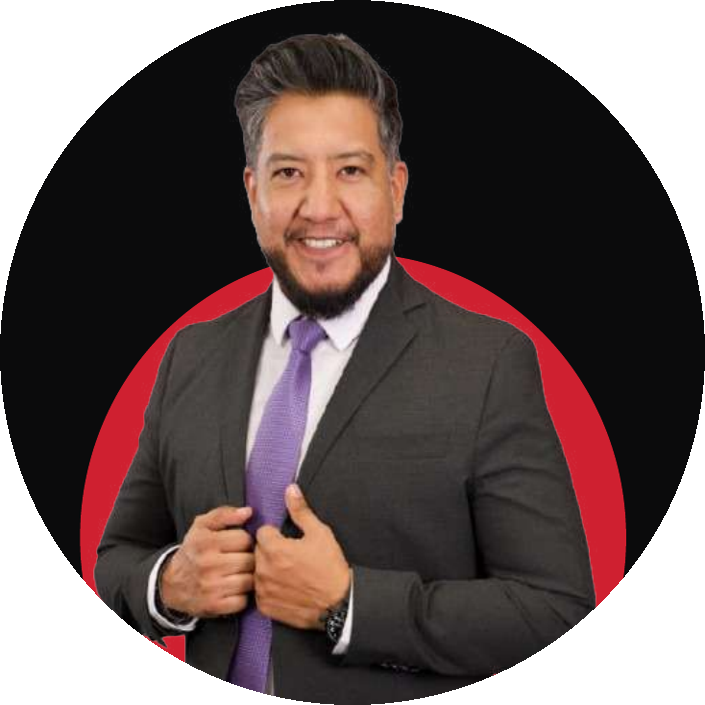
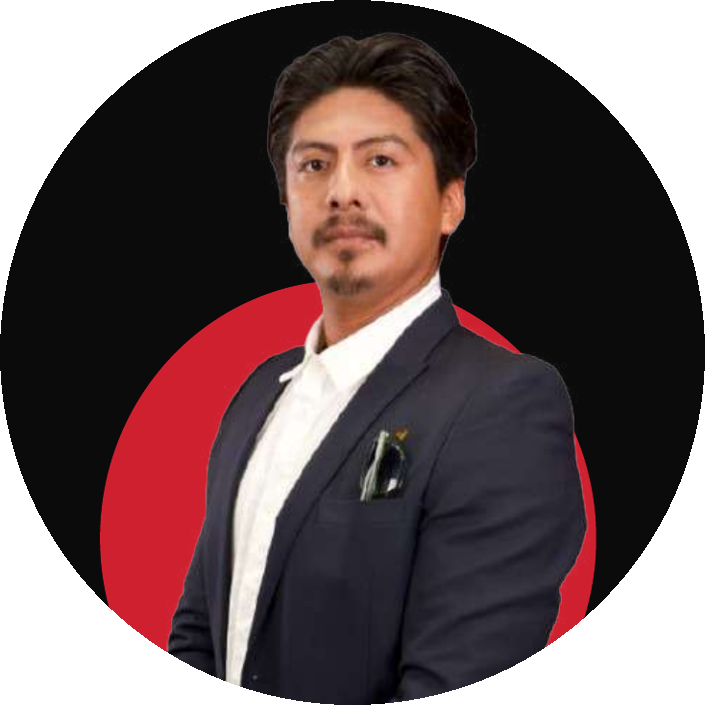
Fix swapped photos for Rogelio Castillo/Rodrigo Calvo and add company name to recommendation templates
Photos were assigned to the wrong member due to a page-order mismatch.
Recommendation templates now read "Nombre de Empresa" instead of just the
name, so the copied text identifies which business is being recommended.

diff --git a/index.html b/index.html
@@ -274,16 +274,16 @@
 let MIEMBROS = [];
 
 const optionTemplates = [
-  (n,l) => `Recomiendo ampliamente a ${n} por su profesionalismo y excelentes resultados. Ponte en contacto, te dejo su WhatsApp.\n\n${l}`,
-  (n,l) => `Por experiencia propia, puedo recomendar el trabajo de ${n} con total confianza. Aquí te comparto sus datos.\n\n${l}`,
-  (n,l) => `${n} es una persona confiable, responsable y orientada a resultados. No dudes en contactarlo(a), te dejo su información.\n\n${l}`,
-  (n,l) => `${n} destaca por su profesionalismo, calidad y atención al detalle. Te comparto su WhatsApp para que puedas contactarlo(a).\n\n${l}`,
-  (n,l) => `Recomiendo los servicios de ${n} por su compromiso y nivel de excelencia. Ponte en contacto y conoce cómo puede ayudarte.\n\n${l}`,
-  (n,l) => `Sin duda, ${n} es una excelente opción para quienes buscan confianza y resultados. Te dejo sus datos de contacto.\n\n${l}`,
-  (n,l) => `Compro los productos y servicios de ${n} y los recomiendo ampliamente por su calidad y atención. Aquí te comparto su información.\n\n${l}`,
-  (n,l) => `He probado los productos y servicios de ${n} y los recomiendo por su calidad y confiabilidad. No dudes en ponerte en contacto.\n\n${l}`,
-  (n,l) => `Cuando necesito este tipo de productos o servicios, ${n} es mi primera opción. Te dejo su WhatsApp.\n\n${l}`,
-  (n,l) => `Recomiendo a ${n} por su confianza, calidad y cumplimiento. Vale la pena conocer su trabajo, aquí te comparto sus datos.\n\n${l}`
+  (n,l,e) => `Recomiendo ampliamente a ${n} de ${e} por su profesionalismo y excelentes resultados. Ponte en contacto, te dejo su WhatsApp.\n\n${l}`,
+  (n,l,e) => `Por experiencia propia, puedo recomendar el trabajo de ${n} de ${e} con total confianza. Aquí te comparto sus datos.\n\n${l}`,
+  (n,l,e) => `${n} de ${e} es una persona confiable, responsable y orientada a resultados. No dudes en contactarlo(a), te dejo su información.\n\n${l}`,
+  (n,l,e) => `${n} de ${e} destaca por su profesionalismo, calidad y atención al detalle. Te comparto su WhatsApp para que puedas contactarlo(a).\n\n${l}`,
+  (n,l,e) => `Recomiendo los servicios de ${n} de ${e} por su compromiso y nivel de excelencia. Ponte en contacto y conoce cómo puede ayudarte.\n\n${l}`,
+  (n,l,e) => `Sin duda, ${n} de ${e} es una excelente opción para quienes buscan confianza y resultados. Te dejo sus datos de contacto.\n\n${l}`,
+  (n,l,e) => `Compro los productos y servicios de ${n} de ${e} y los recomiendo ampliamente por su calidad y atención. Aquí te comparto su información.\n\n${l}`,
+  (n,l,e) => `He probado los productos y servicios de ${n} de ${e} y los recomiendo por su calidad y confiabilidad. No dudes en ponerte en contacto.\n\n${l}`,
+  (n,l,e) => `Cuando necesito este tipo de productos o servicios, ${n} de ${e} es mi primera opción. Te dejo su WhatsApp.\n\n${l}`,
+  (n,l,e) => `Recomiendo a ${n} de ${e} por su confianza, calidad y cumplimiento. Vale la pena conocer su trabajo, aquí te comparto sus datos.\n\n${l}`
 ];
 
 function showToast(msg){
@@ -338,7 +338,7 @@ function cardTemplate(m,i){
     <div class="more-options">
       ${optionTemplates.map((fn,i)=>`
         <div class="option">
-          <p>${fn(m.nombre, link)}</p>
+          <p>${fn(m.nombre, link, m.empresa || 'su empresa')}</p>
           <button class="btn btn-secondary" data-action="copy-option" data-idx="${i}">COPIAR</button>
         </div>
       `).join('')}
@@ -379,7 +379,7 @@ document.getElementById('results').addEventListener('click', (e)=>{
     btn.textContent = panel.classList.contains('open') ? 'Ocultar opciones' : 'Opciones de Recomendación';
   } else if(action === 'copy-option'){
     const idx = Number(btn.dataset.idx);
-    const text = optionTemplates[idx](m.nombre, m.whatsapp);
+    const text = optionTemplates[idx](m.nombre, m.whatsapp, m.empresa || 'su empresa');
     copyText(text, '✅ Recomendación copiada');
   }
 });
